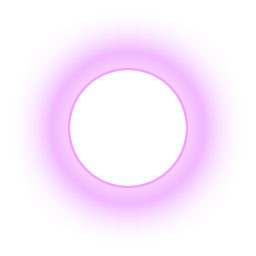
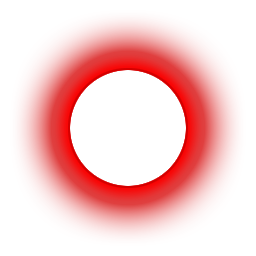
Fixing goal cooldowns, updating sprites

diff --git a/js/capTheFlag.js b/js/capTheFlag.js
@@ -12,7 +12,7 @@ var statusText;
 var player;
 var blueCircle;
 var redCircle;
-var tanksList;
+var playersList;
 var logo;
 var cursors;
 var players;
@@ -26,7 +26,6 @@ var eurecaServer;
 var eurecaClientSetup = function() {
     //create an instance of eureca.io client
     var eurecaClient = new Eureca.Client();
-
     eurecaClient.ready(function (proxy) {
         eurecaServer = proxy;
     });
@@ -46,36 +45,36 @@ var eurecaClientSetup = function() {
 
     eurecaClient.exports.kill = function(id)
     {
-        if (tanksList[id]) {
-            tanksList[id].kill();
-            console.log('killing ', id, tanksList[id]);
+        if (playersList[id]) {
+            playersList[id].kill();
+            console.log('killing ', id, playersList[id]);
         }
     }
 
     eurecaClient.exports.spawnEnemy = function(i, x, y, team)
     {
         if (i == myId) return; //this is me
-        if(tanksList[i] != null) return; //avoid duplicates
+        if(playersList[i] != null) return; //avoid duplicates
         console.log('Spawn %s %s %s', i, x, y);
         var tnk = new Tank(i, game, tank, team);
         tnk.tank.x = x;
         tnk.tank.y = y;
-        tanksList[i] = tnk;
+        playersList[i] = tnk;
     }
 
     eurecaClient.exports.updateState = function(id, state)
     {
         if(id == myId){
-            tanksList[id].score = state.score;
-            tanksList[id].cursor = state;
-            tanksList[id].update();
-        }else if (tanksList[id])  {
-            tanksList[id].cursor = state;
-            game.add.tween(tanksList[id].tank).to({x: state.x, y: state.y}, 50, null, true);
-            //tanksList[id].tank.x = state.x;
-            //tanksList[id].tank.y = state.y;
-            tanksList[id].tank.angle = state.angle;
-            tanksList[id].update();
+            playersList[id].score = state.score;
+            playersList[id].cursor = state;
+            playersList[id].update();
+        }else if (playersList[id])  {
+            playersList[id].cursor = state;
+            game.add.tween(playersList[id].tank).to({x: state.x, y: state.y}, 50, null, true);
+            //playersList[id].tank.x = state.x;
+            //playersList[id].tank.y = state.y;
+            playersList[id].tank.angle = state.angle;
+            playersList[id].update();
         }
     }
 
@@ -226,7 +225,7 @@ Tank.prototype.update = function() {
 };
 
 Tank.prototype.kill = function() {
-    delete tanksList[this.tank.id];
+    delete playersList[this.tank.id];
     this.alive = false;
     this.tank.kill();
     this.shadow.kill();
@@ -244,7 +243,7 @@ function preload () {
     //game.load.image('logo', 'assets/logo.png');
     game.load.image('earth', 'assets/dark_grass.png');
     game.load.image('flagzone', 'assets/scorched_earth.png')
-    game.load.image('bCircle', 'assets/blueCircle.png');
+    game.load.image('bCircle', 'assets/bCircle.png');
     game.load.image('rCircle', 'assets/redCircle.png');
     game.load.spritesheet('buttonfire', 'assets/button-round.png',96,96);
     game.load.spritesheet('buttonhorizontal', 'assets/button-horizontal.png',96,64);
@@ -277,10 +276,10 @@ function create () {
 
     land.fixedToCamera = true;
 
-    tanksList = {};
+    playersList = {};
 
     player = new Tank(myId, game, tank, myTeam);
-    tanksList[myId] = player;
+    playersList[myId] = player;
     tank = player.tank;
     tank.team = myTeam;
     shadow = player.shadow;
@@ -309,16 +308,19 @@ function create () {
     }
 
     var style = {font: "48px Arial", fill: "#ffffff"};
-    players = game.add.text(32,32, "Players: " + Object.keys(tanksList).length,
+    players = game.add.text(32,32, "Players: " + Object.keys(playersList).length,
                                 {font: "14px Arial", fill: "#ffffff"});
     players.fixedToCamera = true;
+    players.resolution = 1;
 
     score = game.add.text(820,32, "", {font: "14px Arial", fill: "#ffffff"});
     score.fixedToCamera = true;
+    score.resolution = 1;
 
     statusText = game.add.text(game.camera.width/2,(game.camera.height/2)-150,"", style);
     statusText.fixedToCamera = true;
     statusText.anchor.setTo(0.5);
+    statusText.resolution = 1;
 
     //logo = game.add.sprite(0, 200, 'logo');
     //logo.fixedToCamera = true;
@@ -343,8 +345,8 @@ function update () {
     //do not update if client not ready
     if (!ready) return;
 
-    players.setText("Players: " + Object.keys(tanksList).length);
-    score.setText("Reds: " + tanksList[myId].score.red + "\nBlues: " + tanksList[myId].score.blue);
+    players.setText("Players: " + Object.keys(playersList).length);
+    score.setText("Reds: " + playersList[myId].score.red + "\nBlues: " + playersList[myId].score.blue);
 
     player.input.left = cursors.left.isDown || player.left;
     player.input.right = cursors.right.isDown || player.right;
@@ -358,8 +360,8 @@ function update () {
     game.physics.arcade.overlap(player.tank, flagzoneBottom, tryFlag);
     game.physics.arcade.overlap(player.tank, flagzoneTop, tryFlag);
 
-    for (var i in tanksList){
-        var curTank = tanksList[i];
+    for (var i in playersList){
+        var curTank = playersList[i];
         if(curTank.alive){
             game.physics.arcade.collide(player.tank, curTank.tank, collision);
             curTank.update();
@@ -371,23 +373,23 @@ function render () {
 }
 
 function collision(playerTank, enemyTank){
-    if(tanksList[playerTank.id].hasFlag && (tanksList[playerTank.id].team != tanksList[enemyTank.id].team)){
-        tanksList[playerTank.id].hasFlag = false;
-        eurecaServer.dropFlag(tanksList[playerTank.id].team);
+    if(playersList[playerTank.id].hasFlag && (playersList[playerTank.id].team != playersList[enemyTank.id].team)){
+        playersList[playerTank.id].hasFlag = false;
+        eurecaServer.dropFlag(playersList[playerTank.id].team);
     }
 }
 
 function tryFlag(targetTank, targetZone){
-    if(tanksList[targetTank.id].team == 1 && targetZone == flagzoneBottom){
-        tanksList[targetTank.id].hasFlag = true;
-    } else if (tanksList[targetTank.id].team == 0 && targetZone == flagzoneTop){
-        tanksList[targetTank.id].hasFlag = true;
+    if(playersList[targetTank.id].team == 1 && targetZone == flagzoneBottom){
+        playersList[targetTank.id].hasFlag = true;
+    } else if (playersList[targetTank.id].team == 0 && targetZone == flagzoneTop){
+        playersList[targetTank.id].hasFlag = true;
     }
 
-    if(tanksList[targetTank.id].team == 1 && targetZone == flagzoneTop && tanksList[targetTank.id].hasFlag){
-        tanksList[targetTank.id].hasGoal = true;
-    } else if (tanksList[targetTank.id].team == 0 && targetZone == flagzoneBottom && tanksList[targetTank.id].hasFlag){
-        tanksList[targetTank.id].hasGoal = true;
+    if(playersList[targetTank.id].team == 1 && targetZone == flagzoneTop && playersList[targetTank.id].hasFlag){
+        playersList[targetTank.id].hasGoal = true;
+    } else if (playersList[targetTank.id].team == 0 && targetZone == flagzoneBottom && playersList[targetTank.id].hasFlag){
+        playersList[targetTank.id].hasGoal = true;
     }
 }
 

diff --git a/server.js b/server.js
@@ -14,7 +14,7 @@ var nPlayers = 0;
 var blueFlag = "empty";
 var redFlag = "empty";
 var score = {red: 0, blue: 0};
-var goalCooldown = 0;
+var cooldown = {red: 0, blue: 0};
 
 eurecaServer.attach(server);
 
@@ -77,18 +77,18 @@ eurecaServer.exports.handleKeys = function (keys) {
     var eventGoal = false;
 
     if(keys.hasGoal && keys.hasFlag){
-        if(Date.now() - goalCooldown > 1000){
-            goalCooldown = Date.now();
+        if(keys.team == 1 && Date.now() - cooldown.blue > 1000){
+            cooldown.blue = Date.now();
             eventGoal = true;
-            if(keys.team == 1){
-                textEvent = "Blue";
-                score.blue++;
-            }else{
-                textEvent = "Red";
-                score.red++;
-            }
-            textEvent += " team scores!";
+            textEvent = "Blue";
+            score.blue++;
+        }else if(keys.team == 2 && Date.now() - cooldown.red > 1000){
+            cooldown.red = Date.now();
+            eventGoal = true;
+            textEvent = "Red";
+            score.red++;
         }
+        textEvent += " team scores!";
         keys.hasFlag = false;
         keys.hasGoal = false;
         blueFlag = "empty";
